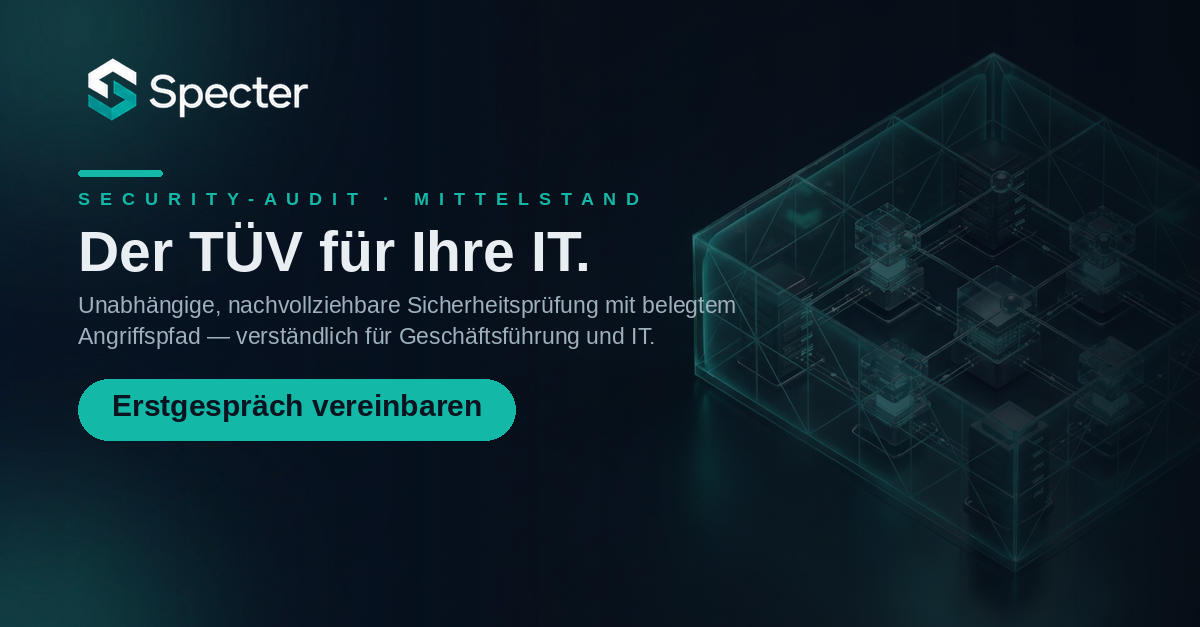
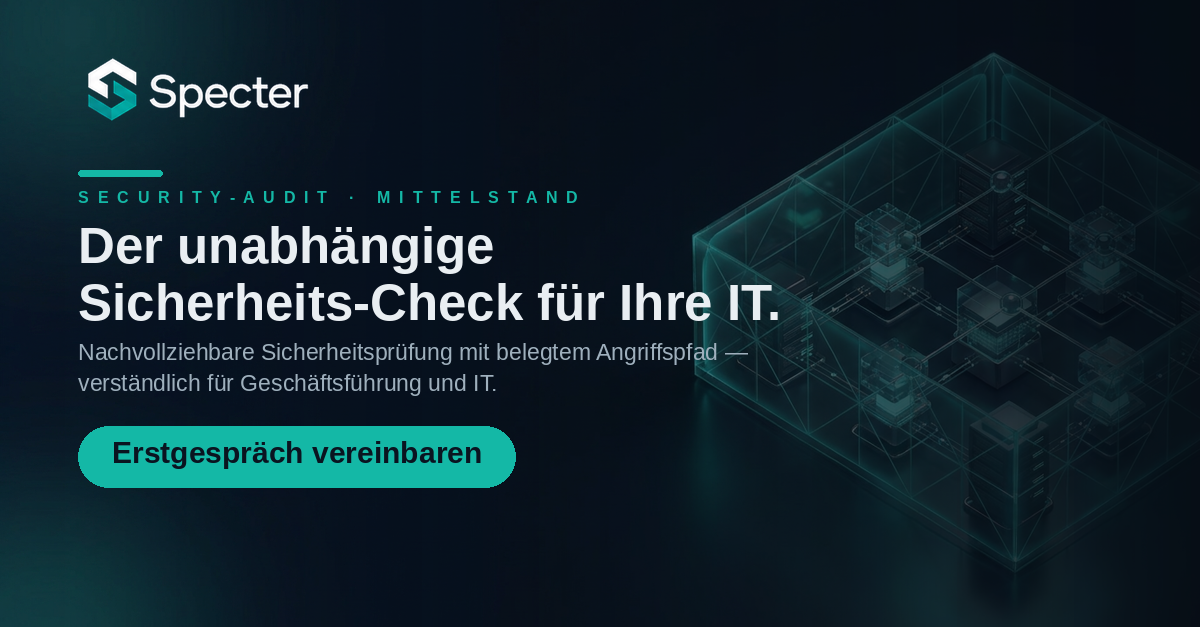
Marken-Claim "TÜV" entfernen (markenrechtliches Risiko)
"TÜV" ist eine geschützte, aktiv verteidigte Marke — als Werbe-Claim für eine
eigene Leistung riskant (Markenrecht §14 MarkenG / Irreführung §5 UWG). Überall
durch den neutralen Claim "Der unabhängige Sicherheits-Check für Ihre IT"
ersetzt:
- Texte: README.md, social-media/CONTENT-PLAN.md, social-media/README.md
- Generierte Marketing-Texte: specter/handbook.py, specter/trust.py
- Neu gerenderte Motive: linkedin-1200x627.png, story-9x16.png

Tests: 792 grün, 100% Coverage.

Claude-Session: https://claude.ai/code/session_01SMYHCWPBd3vHpsm6TZ7rb2

Changed region(s): [[0.0617, 0.303, 0.6475, 0.7879]]

diff --git a/specter/handbook.py b/specter/handbook.py
@@ -165,9 +165,9 @@ def build_handbook_html(company_name: str = "Ihr Unternehmen",
              "findet Schwachstellen und schreibt einen verständlichen Bericht mit "
              "konkreten Empfehlungen - so wie es große Sicherheitsfirmen tun, nur "
              "günstiger und schneller.</p>")
-    p.append("<div class='callout'>Merksatz: Specter ist wie ein <strong>TÜV für "
-             "die IT</strong>. Er repariert nichts selbst und bricht nirgends ein - "
-             "er prüft, dokumentiert und empfiehlt.</div>")
+    p.append("<div class='callout'>Merksatz: Specter ist wie ein <strong>unabhängiger "
+             "Sicherheits-Check für die IT</strong>. Er repariert nichts selbst und "
+             "bricht nirgends ein - er prüft, dokumentiert und empfiehlt.</div>")
     p.append("<p>Das Besondere: Specter arbeitet <strong>offline</strong>. Er wertet "
              "Export-Dateien aus, die der Kunde bereitstellt. Er verbindet sich nicht "
              "heimlich mit fremden Systemen. Das macht ihn sicher - und rechtlich sauber.</p>")

diff --git a/specter/trust.py b/specter/trust.py
@@ -190,8 +190,8 @@ def build_trust_html(customer_name: str = "Ihr Unternehmen",
              "<li><strong>Nachtest (Re-Test)</strong> belegt die Behebung nach der "
              "Umsetzung.</li></ul>")
 
-    p.append("<div class='ok'><strong>Kurz gesagt:</strong> Specter prüft wie ein "
-             "TÜV - gründlich, nachvollziehbar und ohne Ihre Systeme zu "
+    p.append("<div class='ok'><strong>Kurz gesagt:</strong> Specter prüft "
+             "unabhängig und gründlich - nachvollziehbar und ohne Ihre Systeme zu "
              "gefährden. Sie behalten jederzeit die Kontrolle.</div>")
 
     p.append("<footer>Vertrauens- &amp; Sicherheitszusage, erstellt mit Specter "

diff --git a/social-media/CONTENT-PLAN.md b/social-media/CONTENT-PLAN.md
@@ -19,7 +19,7 @@ und tragen das **Original-Specter-Logo** (siehe [`README.md`](README.md)).
 |---|---|
 | **Marke** | Specter — Sicherheits-Audit für den deutschen Mittelstand |
 | **Kernbotschaft** | „Wir gehen den Weg des Angreifers zuerst — legal, kontrolliert, dokumentiert." |
-| **Positionierung** | Der **TÜV für Ihre IT**: unabhängig, nachvollziehbar, verständlich für Geschäftsführung *und* IT |
+| **Positionierung** | Der **unabhängige Sicherheits-Check für Ihre IT**: nachvollziehbar, verständlich für Geschäftsführung *und* IT |
 | **Zielgruppe** | Geschäftsführung, IT-Leitung & IT-Verantwortliche in KMU/Mittelstand (DACH) |
 | **Tonalität** | Seriös, ruhig, kompetent — kein Angst-Marketing, sondern Klarheit & Kontrolle |
 | **Sprache** | Deutsch (Sie-Form) |
@@ -29,7 +29,7 @@ und tragen das **Original-Specter-Logo** (siehe [`README.md`](README.md)).
 ### Content-Säulen
 1. **Aufklären** — wie Angriffe wirklich ablaufen (Karussell, Reels).
 2. **Beweisen** — belegter Angriffspfad, nachvollziehbare Ergebnisse (Infografik, Benchmark).
-3. **Vertrauen** — Unabhängigkeit, Datenschutz, „TÜV"-Prinzip, deutsche Wertarbeit.
+3. **Vertrauen** — Unabhängigkeit, Datenschutz, Prüf-Prinzip, deutsche Wertarbeit.
 4. **Handeln** — klarer CTA: Sicherheits-Audit / Erstgespräch anfragen.
 
 ### Beste Posting-Zeiten (DACH, B2B)
@@ -80,7 +80,7 @@ Nicht alle gleichzeitig — pro Post das passende Set kombinieren.
 **Assets:** `linkedin-1200x627.png` (LinkedIn) · `hero-feed-4x5.png` (IG/FB)
 
 **LinkedIn-Text:**
-> **Der TÜV für Ihre IT.**
+> **Der unabhängige Sicherheits-Check für Ihre IT.**
 >
 > Beim Auto ist es selbstverständlich: alle zwei Jahre unabhängig prüfen lassen,
 > ob alles sicher ist. Bei der IT — dem Nervensystem Ihres Unternehmens —
@@ -101,8 +101,8 @@ Nicht alle gleichzeitig — pro Post das passende Set kombinieren.
 **Instagram/Facebook-Text:**
 > 🛡️ **Angriffe stoppen, bevor sie beginnen.**
 >
-> Specter ist der TÜV für Ihre IT: eine unabhängige Sicherheitsprüfung, die den
-> Weg eines echten Angreifers nachgeht — legal, kontrolliert, dokumentiert.
+> Specter ist der unabhängige Sicherheits-Check für Ihre IT: eine Sicherheitsprüfung,
+> die den Weg eines echten Angreifers nachgeht — legal, kontrolliert, dokumentiert.
 >
 > Diese Woche nehmen wir Sie mit: Wie läuft ein Angriff auf ein Unternehmen
 > wirklich ab? Und wo lässt er sich aufhalten? Bleiben Sie dran. 🔒
@@ -224,7 +224,7 @@ Nicht alle gleichzeitig — pro Post das passende Set kombinieren.
 **Facebook-Text (für Boosting geeignet):**
 > **Angriffe stoppen, bevor sie beginnen.**
 > Specter prüft Ihre IT wie ein echter Angreifer — unabhängig, dokumentiert,
-> verständlich. Der TÜV für Ihre IT.
+> verständlich. Der unabhängige Sicherheits-Check für Ihre IT.
 > 👉 Kostenloses Erstgespräch: [LINK]
 >
 > #Specter #ITSicherheit #Mittelstand

diff --git a/social-media/README.md b/social-media/README.md
@@ -13,10 +13,10 @@ pixelgenau einkomponiert (das Logo stammt aus `../docs/brand/`, nicht aus der KI
 | Datei | Format | Kanal / Platzierung | Motiv & Text |
 |---|---|---|---|
 | [`hero-feed-4x5.png`](hero-feed-4x5.png) | 4:5 · 2K | IG/FB **Feed** | Teal-Wächter — *„Angriffe stoppen, bevor sie beginnen"* |
-| [`story-9x16.png`](story-9x16.png) | 9:16 · 2K | **Story / Reel-Cover** | Teal-Schild über Gewerbegebiet — *„Der TÜV für Ihre IT"* |
+| [`story-9x16.png`](story-9x16.png) | 9:16 · 2K | **Story / Reel-Cover** | Teal-Schild über Gewerbegebiet — *„Der unabhängige Sicherheits-Check für Ihre IT"* |
 | [`attack-path-1x1.png`](attack-path-1x1.png) | 1:1 · 2K | Feed / **Karussell** | Angriffspfad-Infografik — *„Wir finden den Weg des Angreifers — zuerst"* |
 | [`facebook-16x9.png`](facebook-16x9.png) | 16:9 · 1200×630 | **Facebook** Querformat / Link / Ad | Hero-Szene + Logo — *„Angriffe stoppen, bevor sie beginnen"* |
-| [`linkedin-1200x627.png`](linkedin-1200x627.png) | 1.91:1 · 1200×627 | **LinkedIn** Einzelbild | *„Der TÜV für Ihre IT"* |
+| [`linkedin-1200x627.png`](linkedin-1200x627.png) | 1.91:1 · 1200×627 | **LinkedIn** Einzelbild | *„Der unabhängige Sicherheits-Check für Ihre IT"* |
 | [`carousel-1-aufklaerung.png`](carousel-1-aufklaerung.png) … [`-5-specter.png`](carousel-5-specter.png) | 1:1 · 1080 ×5 | IG/FB **Karussell** | „So läuft ein Angriff" — 5 Schritte, Folie 5 mit CTA + Logo |
 | [`reel-attack-cover-9x16.png`](reel-attack-cover-9x16.png) | 9:16 · 1080×1920 | **Reel/Story-Cover** | Cover zum Angriff-Reel |
 

diff --git a/README.md b/README.md
@@ -46,7 +46,7 @@ Die großen Plattformen (EDR, Cloud Security, SIEM) **überwachen den laufenden 
 ## Was ist Specter?
 
 Specter ist eine **automatische, defensive Sicherheitsprüfung**. Man kann sich das
-wie einen **TÜV für die IT** vorstellen: Er schaut sich die IT einer Firma an, findet
+wie einen **unabhängigen Sicherheits-Check für die IT** vorstellen: Er schaut sich die IT einer Firma an, findet
 Schwachstellen und schreibt einen verständlichen Bericht mit klaren Prioritäten — so
 wie es große Sicherheitsfirmen tun, nur schneller und günstiger.
 